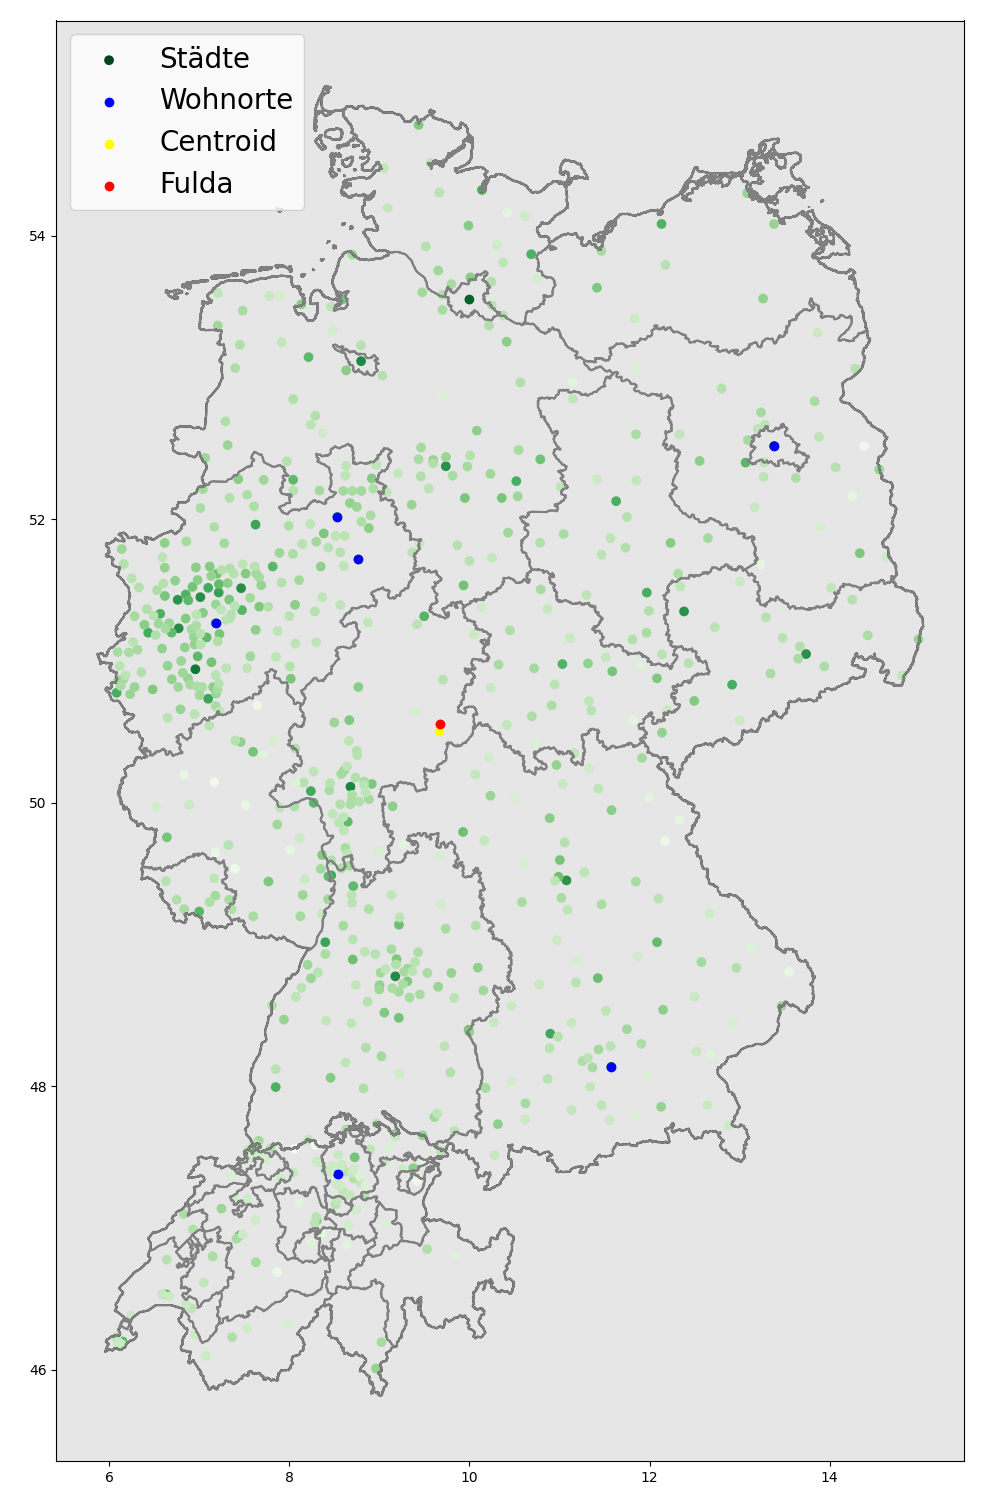
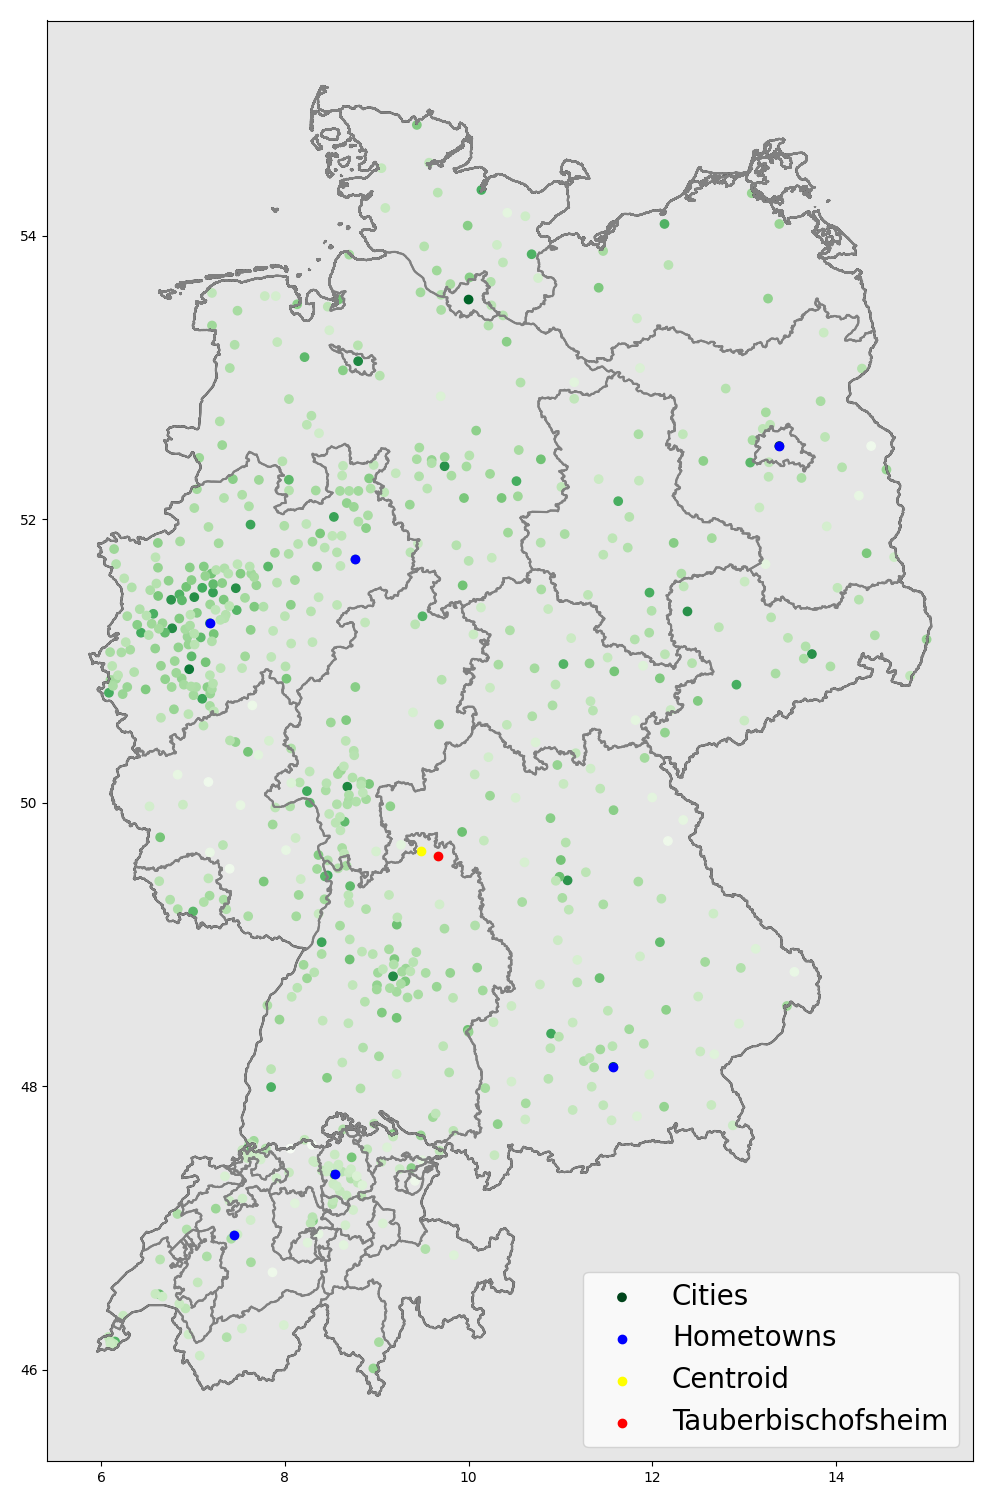
Make code more general, english-language legend

diff --git a/main.py b/main.py
@@ -37,32 +37,30 @@ cities_df = germany_cities_df.append(switzerland_cities_df)
 cities_gdf = geopandas.GeoDataFrame(
     cities_df, crs="EPSG:4326", geometry=geopandas.points_from_xy(cities_df.lng, cities_df.lat))
 
-selected_cities_list = ["Wuppertal", "Paderborn", "Bielefeld", "Berlin", "Munich", "Zürich"]
+selected_cities_list = ["Wuppertal", "Paderborn", "Berlin", "Munich", "Zürich", "Bern"]
 selected_cities_gdf = cities_gdf[cities_gdf.city.isin(selected_cities_list)]
 centroid_df = selected_cities_gdf.mean()
 centroid_gdf = geopandas.GeoDataFrame(geometry=geopandas.points_from_xy(x=[centroid_df.lng], y=[centroid_df.lat], crs="EPSG:4326"))
-print(centroid_gdf)
+central_city_gdf = ckdnearest(centroid_gdf, cities_gdf)
 
-closest_city_gdf = ckdnearest(centroid_gdf, cities_gdf)
-print(closest_city_gdf)
-
-#germany_gdf.to_crs("EPSG:3857")
+# Reproject data into Google Maps/OpenStreetMap projection and plot it
+germany_gdf.to_crs("EPSG:3857")
 germany_gdf.boundary.plot(ax=ax, color="black")
-#switzerland_gdf.to_crs("EPSG:3857")
+switzerland_gdf.to_crs("EPSG:3857")
 switzerland_gdf.boundary.plot(ax=ax, color="black")
-#germany_bundesland_gdf.to_crs("EPSG:3857")
+germany_bundesland_gdf.to_crs("EPSG:3857")
 germany_bundesland_gdf.boundary.plot(ax=ax, color="grey")
-#
+switzerland_kanton_gdf.to_crs("EPSG:3857")
 switzerland_kanton_gdf.boundary.plot(ax=ax, color="grey")
-#cities_gdf.to_crs("EPSG:3857")
-cities_gdf.plot(ax=ax, column="population", label="Städte", cmap="Greens", norm=matplotlib.colors.LogNorm())
-#selected_cities_gdf.to_crs("EPSG:3857")
-selected_cities_gdf.plot(ax=ax, color="blue", label="Wohnorte")
-#centroid_gdf.to_crs("EPSG:3857")
+cities_gdf.to_crs("EPSG:3857")
+cities_gdf.plot(ax=ax, column="population", label="Cities", cmap="Greens", norm=matplotlib.colors.LogNorm())
+selected_cities_gdf.to_crs("EPSG:3857")
+selected_cities_gdf.plot(ax=ax, color="blue", label="Hometowns")
+centroid_gdf.to_crs("EPSG:3857")
 centroid_gdf.plot(ax=ax, color="yellow", label="Centroid")
-
-#closest_city_gdf.to_crs("EPSG:3857")
-closest_city_gdf.plot(ax=ax, color="red", label="Fulda")
+central_city_gdf.to_crs("EPSG:3857")
+central_city_label = central_city_gdf.iloc[0].city
+central_city_gdf.plot(ax=ax, color="red", label=central_city_label)
 
 ax.set_facecolor('0.9')
 
